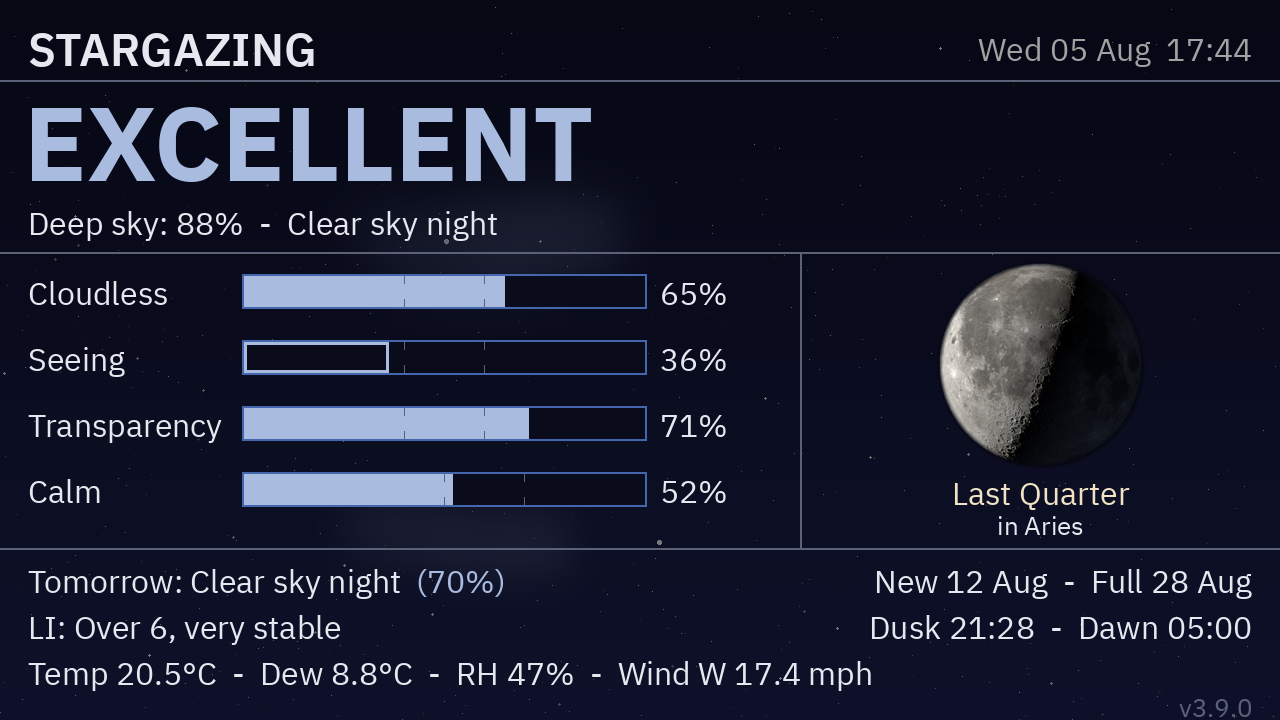
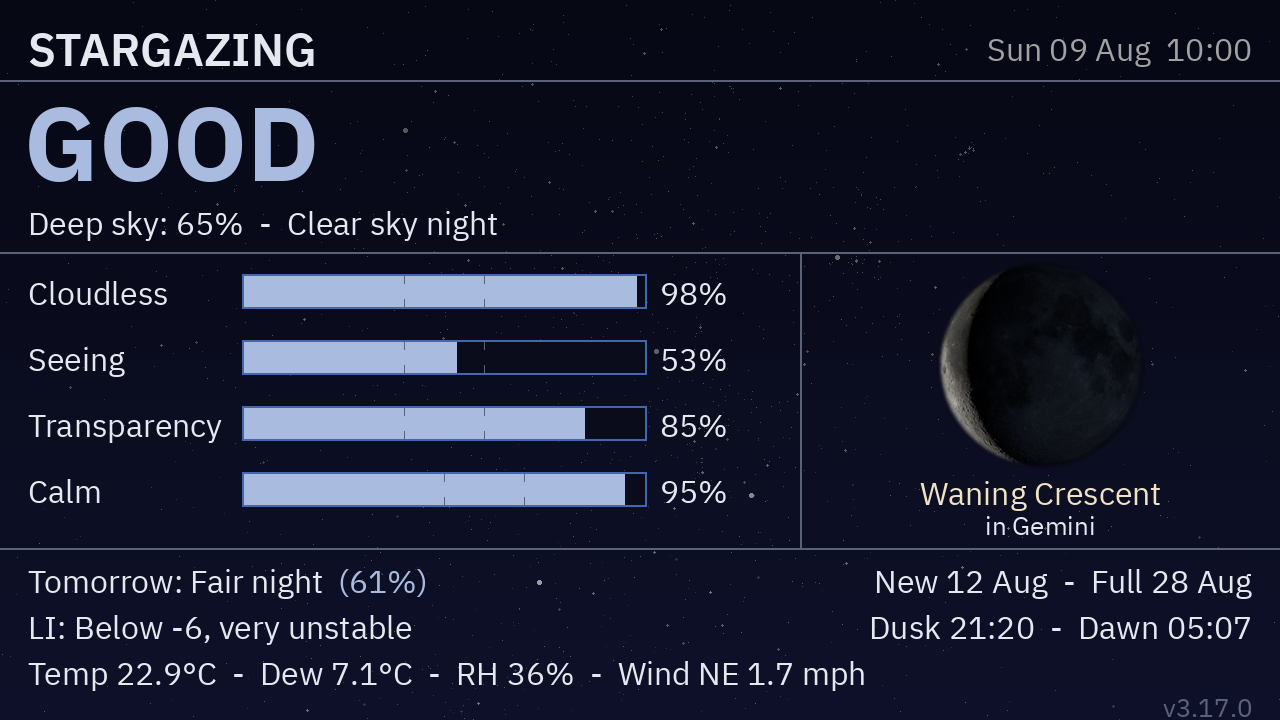
Report bodies below the horizon on the 5-inch build too
The 8 Aug change that added this line only touched build10, so the 5" targets
page still had no way to distinguish "no planets tonight" from "none of them
has risen yet". core.positions.next_rise was already shared and simply unused
here. The user spotted the gap on the panel.

Not a copy of the 10" implementation, for two reasons. Nothing has to move to
make room: the deep-sky cards sit in the right-hand column past P2_DIV_X, where
on the 10" they follow the panorama and CARD_Y0 had to shift. And the line has a
width limit the 10" does not, its column being 584px against 1200 - four bodies
with rise times would run into the divider - so entries are dropped from the far
end, the latest to rise being the least actionable, until the line fits.

The marks the panorama already computed are reused rather than recomputing
alt-az, and comets are excluded as on the 10": their rise times would come from
the report's frozen coordinates rather than an ephemeris.

Verified on the panel with one body down (Mars 01:32) and by a synthetic case
of two, three and five, since the live data exercised neither the cap nor the
truncation. The empty case draws nothing at all rather than a zero-width line.

Screenshots retaken from the deployed build, and the README alt text for both
follows the images: the conditions text still described an EXCELLENT verdict, a
last-quarter Moon in Aries and a hollow 36% Seeing bar, none of which had been
[…]

diff --git a/build5/display.py b/build5/display.py
@@ -50,7 +50,7 @@ from core.palette import (
     verdict,
 )
 from core.panel import PIL_ROTATION, Framebuffer, Strip
-from core.positions import alt_az, observer, plot_instant
+from core.positions import alt_az, next_rise, observer, plot_instant
 from core.sky import Sky
 from core.sky import sky_params as core_sky_params
 from core.starfield import project, project_point, px_per_degree
@@ -65,7 +65,7 @@ from core.weather import KMH_TO_MPH, compare_sources, make_fetcher
 # the tag build5-hardware-verified marks the last state that was. Repo releases
 # are versioned separately in pyproject.toml and will keep moving; the two were
 # never going to line up.
-FIRMWARE_VERSION = "3.16.0"
+FIRMWARE_VERSION = "3.17.0"
 
 # The largest image this program legitimately opens is a 730x730 moon frame.
 # PIL's default decompression-bomb threshold (~178M pixels) would let a hostile
@@ -432,6 +432,10 @@ PAN_X0, PAN_X1 = MARGIN, P2_DIV_X - 24
 # dead space that squeezed everything else together. Latitude-specific: raise
 # this if the display is ever used much further south.
 PAN_ALT_MAX = 70.0
+# The "below the horizon" line, in the band between the compass labels (which
+# end near 600) and the comet note at 656. Unlike the 10" build, the cards sit
+# in the right-hand column past P2_DIV_X, so nothing has to move to make room.
+PAN_BELOW_Y = 612
 
 
 def _tl_x(t, t0, t1, x0, x1):
@@ -687,6 +691,48 @@ def _panorama_marks(bodies, comets, obs):
     return marks
 
 
+def _draw_below_horizon(draw, marks, bodies, obs, f_xs):
+    """Name the bodies the panorama dropped, and when they rise.
+
+    The plot shows nothing below the horizon, which leaves no way to tell "no
+    planets tonight" from "none of them has risen yet" - and the two look
+    identical exactly when the plot is emptiest. Soonest first, because the next
+    body to rise is the one worth waiting for.
+
+    Comets are left out, as they are on the 10" build: their rise times would
+    come from the report's frozen coordinates rather than an ephemeris.
+    """
+    pos = {str(b.get("target name", "?")):
+           (b.get("right ascension"), b.get("declination")) for b in bodies}
+    below = [(name, next_rise(obs, name, *pos[name]))
+             for _, alt, name, _, _ in marks if alt < 0 and name in pos]
+    if not below:
+        return
+    # A body that never rises carries no time rather than a guess, and sorts last.
+    below.sort(key=lambda r: (r[1] is None, r[1]))
+    parts = [f"{n} {t:%H:%M}" if t else n for n, t in below]
+
+    # The left column is 584px against the 10" build's full 1200, so this line
+    # is the one place the two layouts cannot share a rule: four bodies would
+    # run into the divider. Entries are dropped from the far end - the latest to
+    # rise, i.e. the least actionable - until the line fits its own column.
+    label, sep = "Below the horizon:   ", "   ·   "
+    avail = PAN_X1 - MARGIN
+
+    def line(k):
+        s = sep.join(parts[:k])
+        if k < len(parts):
+            s += f"{sep}+{len(parts) - k} more"
+        return label + s
+
+    shown = len(parts)
+    while shown > 1 and draw.textlength(line(shown), font=f_xs) > avail:
+        shown -= 1
+    # MUTED, not DIM: DIM is for rules and ticks, and these are rise times
+    # someone acts on.
+    draw.text((MARGIN, PAN_BELOW_Y), line(shown), font=f_xs, fill=MUTED)
+
+
 def render_targets(states, targets, images, lat=None):
     """Page 2 as an RGBA overlay, or None when UpTonight has produced nothing."""
     objects = targets.get("objects") or []
@@ -718,7 +764,9 @@ def render_targets(states, targets, images, lat=None):
     when, when_label = plot_instant(night_window(states))
     obs = observer(lat or 0.0, LON or 0.0,
                    when=when.astimezone(timezone.utc).replace(tzinfo=None))
-    _draw_panorama(draw, _panorama_marks(bodies, comets, obs), when_label, f_sm, f_xs)
+    marks = _panorama_marks(bodies, comets, obs)
+    _draw_panorama(draw, marks, when_label, f_sm, f_xs)
+    _draw_below_horizon(draw, marks, bodies, obs, f_xs)
 
     ranked = sorted(objects, key=lambda o: (-_f(o.get("foto")), _f(o.get("mag"), 99)))
     _draw_cards(img, draw, ranked, images, lat, f_med, f_sm, f_xs)

diff --git a/README.md b/README.md
@@ -36,13 +36,13 @@ Two pages rotate over the same continuous animated sky. Both shots are real fram
 
 **Page 1 — tonight's conditions**
 
-![The conditions page: a large EXCELLENT verdict in pale blue-white, four labelled condition bars with percentages, and a photographic last-quarter Moon captioned Last Quarter in Aries. The Seeing bar reads 36% and is drawn as a hollow outline rather than filled, because it falls below its warning mark; the other three are filled. A footer gives tomorrow's forecast, lifted index, temperature, dew point, humidity and wind.](screenshots/conditions.png)
+![The conditions page: a large GOOD verdict in pale blue-white, four labelled condition bars with percentages, and a photographic waning crescent Moon captioned Waning Crescent in Gemini. Each bar is filled to its value inside a hollow outline, so Seeing at about half sits visibly short of the other three, which are nearly full. A footer gives tomorrow's forecast, lifted index, temperature, dew point, humidity and wind.](screenshots/conditions.png)
 
 > **Dusk / Dawn** is used in that footer, not sunrise/sunset: AstroWeather's sun rise/set entities report **civil twilight** bounds (sun 6° below the horizon), ~40 min off the geometric sun crossing. True darkness is tracked separately (`astronomical_night_duration`) and drives the "NO DARK SKY" state.
 
 **Page 2 — tonight's targets**
 
-![The targets page: a dusk-to-dawn timeline with the astronomical dark window highlighted and a moon-up strip above it; an altitude-versus-bearing plot of the Moon and planets; and four deep-sky cards, each with a real sky photograph, object type, constellation, peak altitude and time.](screenshots/targets.png)
+![The targets page: a dusk-to-dawn timeline with the astronomical dark window highlighted and a moon-up strip above it; an altitude-versus-bearing plot of the Moon and planets, with a line beneath it naming the bodies still below the horizon and the times they rise; and four deep-sky cards, each with a real sky photograph, object type, constellation, peak altitude and time.](screenshots/targets.png)
 
 The page-2 timeline only appears once UpTonight has run, and the page leaves the rotation entirely if it has produced nothing, so an empty page is never shown.
 
